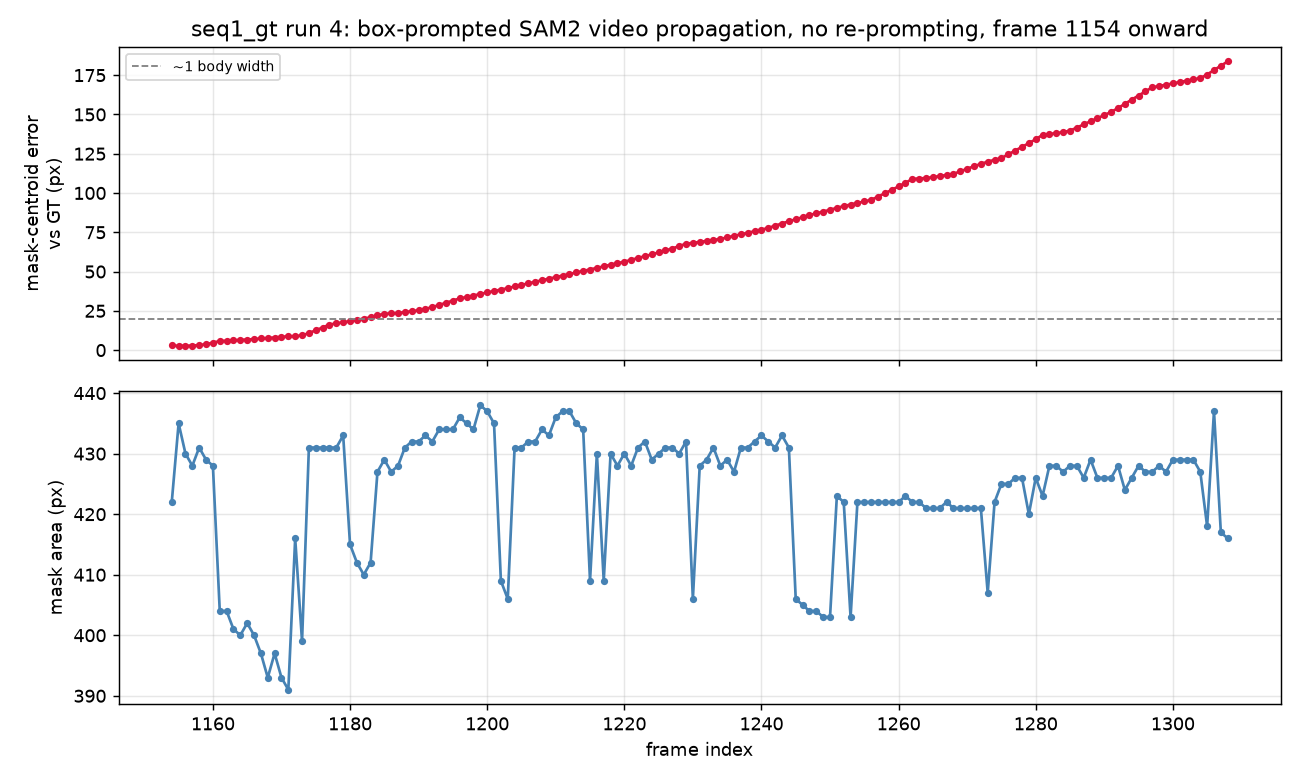
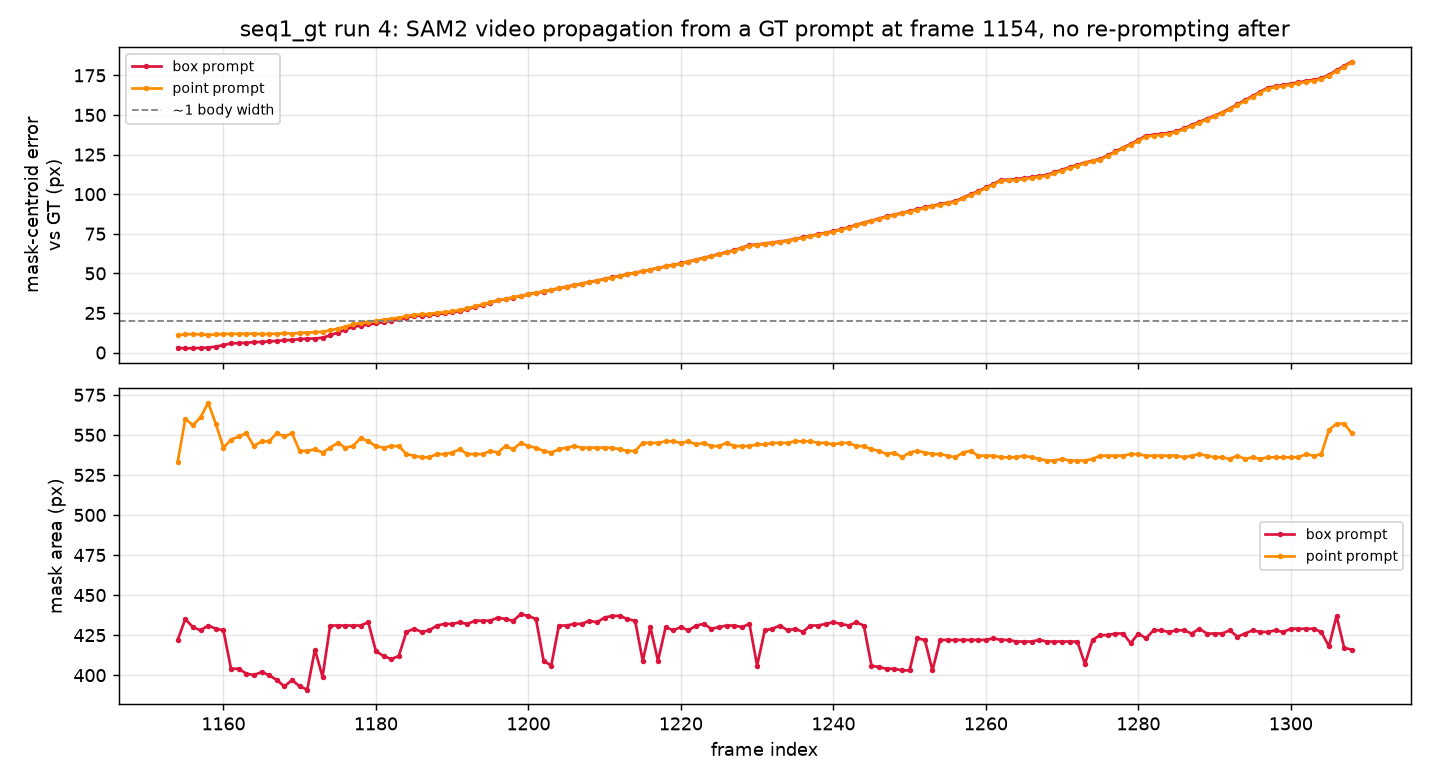
Confirm SAM2 drift is not a box-prompt artifact, and it is a mid-sequence jump, not drift-from-start
Follow-up to the earlier drift check, which used a GT box at frame 0. Two things that check left
open: (1) is the failure specific to giving SAM2 the object's extent (a box), rather than just its
location (a point)? (2) does the error grow smoothly from frame 0, or does a correctly-tracked
stretch suddenly JUMP onto a distractor partway through - which is a materially different failure
mode ("gets stuck at some point in the middle" vs "starts wrong and stays wrong")?

Both prompt kinds now seeded from real ground truth at frame 0 (a box, and a single point at the
box's center), propagated with NO further correction, on the same 155-frame run.

    python -m tracking.eval.sam2_drift_check --seq seq1_gt --run-index 4

RESULT: both prompt types fail almost identically. Centroid error: box mean=75.3px max=183.7px,
point mean=75.9px max=183.2px - the two error curves are visually indistinguishable past frame
~1180. Both are a JUMP, not gradual drift: box holds a settled ~3px track then jumps past 15px at
frame 1177 (23 frames in); point holds ~11px then jumps past 34px at frame 1198 (44 frames in).
Both frame montages show the same thing: the mask locks onto a static feature near the left edge
and never recovers while the real person walks steadily away from it.

So the earlier finding was not an artifact of prompting with a box specifically, and it is not slow
drift accumulating from an already-imprecise start - it is SAM2's video memory abruptly and
[…]

diff --git a/tracking/eval/sam2_drift_check.py b/tracking/eval/sam2_drift_check.py
@@ -1,17 +1,25 @@
 """Does prompted SAM2 (video-mode memory propagation) drift under fragmented occlusion?
 
     python -m tracking.eval.sam2_drift_check --seq seq1_gt --run-index 4
+    python -m tracking.eval.sam2_drift_check --seq seq1_gt --run-index 4 --prompts box
+    python -m tracking.eval.sam2_drift_check --seq seq1_gt --run-index 4 --prompts point
 
 Written to check ONE specific claim before it went on a poster: box-prompted SAM2 loses the person
-behind foliage after sustained occlusion. Prompts SAM2's VIDEO predictor with a box at the FIRST
-ground-truth frame of a run (the standard "track this object" usage), propagates forward through
-the WHOLE traversal with no further input, and measures mask-centroid error against ground truth
-EVERY frame - a real measurement, not a GT-free proxy, because every frame in an NFO GT run has a
-labelled box (unlike master_thesis's real-webcam-footage version of this same check, which had no
-ground truth to measure against at all).
+behind foliage after sustained occlusion (confirmed - see the first version of this script and
+images/stream/seq1_gt_sam2_video_drift*.png). This version asks the follow-up: is that specific to
+a BOX prompt (which gives SAM2 the object's extent, not just its location), and separately, does
+the failure look like drift from frame 0, or a correctly-tracked stretch that then JUMPS onto a
+distractor partway through ("gets stuck at some point in the middle")?
 
-Reported honestly whichever way it comes out - this script does not know in advance whether SAM2
-drifts here, and the poster text is written from whatever this prints, not the other way round.
+Both prompt kinds (box, and a single point at the GT box's center) run by default, both seeded with
+GROUND TRUTH at frame 0 - if the object were prompt-perfectly localised and still ends up 180px away
+by the end of a clip, the failure is in the propagation, not in an imprecise starting point. A
+mid-sequence jump is distinguished from drift-from-the-start by checking for an error spike after a
+genuinely low-error settled stretch, not just any threshold crossing.
+
+Every frame in an NFO GT run has a labelled box, so error against ground truth is a real
+measurement here, not a GT-free proxy the way master_thesis's real-webcam version of this same
+check had to settle for. Reported honestly whichever way it comes out.
 """
 import argparse
 import glob
@@ -32,12 +40,35 @@ def gt_box_px(gt, f, w, h):
     return (x * w, y * h, (x + bw) * w, (y + bh) * h)
 
 
+def run_propagation(video_predictor, frames_dir, T, H, W, gt, f0, prompt_kind):
+    """Seed the video predictor at frame 0 with a GT-derived prompt (box or a single point at the
+    GT box's center) and propagate forward with NO further correction. Returns the [T,H,W] mask
+    stack. Both prompt kinds are tried because a box gives SAM2 the object's EXTENT as well as its
+    location on frame 0, while a point gives only location - if drift happens either way, it is not
+    an artefact of prompt geometry specifically."""
+    box0 = np.array(gt_box_px(gt, f0, W, H), dtype=np.float32)
+    kwargs = dict(box=box0) if prompt_kind == 'box' else dict(
+        points=np.array([[(box0[0] + box0[2]) / 2, (box0[1] + box0[3]) / 2]], dtype=np.float32),
+        labels=np.array([1]))
+    pred = np.zeros((T, H, W), dtype=bool)
+    with torch.inference_mode(), torch.autocast('cuda', dtype=torch.bfloat16):
+        state = video_predictor.init_state(video_path=frames_dir)
+        video_predictor.add_new_points_or_box(state, frame_idx=0, obj_id=1, **kwargs)
+        for fidx, obj_ids, mask_logits in video_predictor.propagate_in_video(state, reverse=False):
+            pred[fidx] = (mask_logits[0, 0] > 0).cpu().numpy()
+    return pred
+
+
 def main():
     p = argparse.ArgumentParser(description=__doc__,
                                 formatter_class=argparse.RawDescriptionHelpFormatter)
     p.add_argument('--seq', default='seq1_gt')
     p.add_argument('--data-dir', default='data/nfo_processed')
     p.add_argument('--run-index', type=int, default=4)
+    p.add_argument('--prompts', nargs='+', choices=('box', 'point'), default=['box', 'point'],
+                   help="which GT-derived prompt(s) to seed frame 0 with, propagating forward "
+                        "with NO further correction. Runs both by default, to check whether "
+                        "drift is specific to one prompt geometry or happens either way.")
     p.add_argument('--out-dir', default='images/stream')
     a = p.parse_args()
 
@@ -55,74 +86,85 @@ def main():
     os.makedirs(FRAMES_DIR, exist_ok=True)
     for t, f in enumerate(abs_idx):
         cv2.imwrite(f'{FRAMES_DIR}/{t:05d}.jpg', frames[f])
-    box0 = np.array(gt_box_px(gt, abs_idx[0], W, H), dtype=np.float32)
 
-    pred = np.zeros((T, H, W), dtype=bool)
-    with torch.inference_mode(), torch.autocast('cuda', dtype=torch.bfloat16):
-        state = video_predictor.init_state(video_path=FRAMES_DIR)
-        video_predictor.add_new_points_or_box(state, frame_idx=0, obj_id=1, box=box0)
-        for fidx, obj_ids, mask_logits in video_predictor.propagate_in_video(state, reverse=False):
-            pred[fidx] = (mask_logits[0, 0] > 0).cpu().numpy()
+    results = {}
+    for kind in a.prompts:
+        print(f'  --- prompt: {kind} ---')
+        pred = run_propagation(video_predictor, FRAMES_DIR, T, H, W, gt, abs_idx[0], kind)
+
+        err_px, area_px, lost = [], [], []
+        for t, f in enumerate(abs_idx):
+            gx1, gy1, gx2, gy2 = gt_box_px(gt, f, W, H)
+            gcx, gcy = (gx1 + gx2) / 2, (gy1 + gy2) / 2
+            m = pred[t]
+            area_px.append(int(m.sum()))
+            if m.sum() == 0:
+                err_px.append(np.nan)
+                lost.append(True)
+            else:
+                ys, xs = np.where(m)
+                err_px.append(float(np.hypot(xs.mean() - gcx, ys.mean() - gcy)))
+                lost.append(False)
+        err_px, area_px, lost = np.array(err_px), np.array(area_px), np.array(lost)
+        results[kind] = (pred, err_px, area_px, lost)
+
+        valid = ~np.isnan(err_px)
+        print(f'    frames with an EMPTY mask (total loss): {lost.sum()}/{T} ({100 * lost.mean():.0f}%)')
+        if valid.any():
+            print(f'    centroid error vs GT: mean={err_px[valid].mean():.1f}px '
+                  f'median={np.median(err_px[valid]):.1f}px max={err_px[valid].max():.1f}px')
+            over = np.flatnonzero(err_px > 20)
+            first_over = 'never' if len(over) == 0 else abs_idx[over[0]]
+            print(f'    first frame exceeding one body-width (20px) of error: {first_over}')
+            # "gets stuck at some point in the MIDDLE": distinct from drifting from frame 0 - a
+            # correct prompt that later JUMPS onto a distractor partway through the clip, rather
+            # than being wrong from the start. Detected as a big error INCREASE after a genuinely
+            # low-error stretch, not just any threshold crossing (which the box-only run already
+            # showed can happen from a near-zero baseline).
+            settled = err_px[valid][:5].mean() if valid.sum() >= 5 else np.nan
+            jump_idx = np.flatnonzero((err_px > 3 * max(settled, 5)) & valid)
+            if len(jump_idx) and jump_idx[0] > 5:
+                print(f'    jumps from a settled track (~{settled:.0f}px) to >{3 * max(settled, 5):.0f}px '
+                      f'at frame {abs_idx[jump_idx[0]]} - a MID-SEQUENCE loss, not drift from the start')
+
     for fp in glob.glob(f'{FRAMES_DIR}/*.jpg'):
         os.remove(fp)
 
-    err_px, area_px, lost = [], [], []
-    for t, f in enumerate(abs_idx):
-        gx1, gy1, gx2, gy2 = gt_box_px(gt, f, W, H)
-        gcx, gcy = (gx1 + gx2) / 2, (gy1 + gy2) / 2
-        m = pred[t]
-        area_px.append(int(m.sum()))
-        if m.sum() == 0:
-            err_px.append(np.nan)
-            lost.append(True)
-        else:
-            ys, xs = np.where(m)
-            err_px.append(float(np.hypot(xs.mean() - gcx, ys.mean() - gcy)))
-            lost.append(False)
-    err_px, area_px, lost = np.array(err_px), np.array(area_px), np.array(lost)
-
-    valid = ~np.isnan(err_px)
-    print(f'  frames with an EMPTY mask (total loss): {lost.sum()}/{T} '
-          f'({100 * lost.mean():.0f}%)')
-    if valid.any():
-        print(f'  centroid error vs GT (frames with a mask): mean={err_px[valid].mean():.1f}px '
-              f'median={np.median(err_px[valid]):.1f}px max={err_px[valid].max():.1f}px')
-        print(f'  first frame where error exceeds 20px (a body width at this scale): '
-              f'{"never" if not (err_px[valid] > 20).any() else abs_idx[np.flatnonzero(err_px > 20)[0]]}')
-
-    fig, axes = plt.subplots(2, 1, figsize=(10, 6), sharex=True)
-    axes[0].plot(abs_idx, err_px, '.-', color='crimson')
+    fig, axes = plt.subplots(2, 1, figsize=(11, 6), sharex=True)
+    colors = {'box': 'crimson', 'point': 'darkorange'}
+    for kind, (pred, err_px, area_px, lost) in results.items():
+        axes[0].plot(abs_idx, err_px, '.-', color=colors[kind], label=f'{kind} prompt', markersize=4)
+        axes[1].plot(abs_idx, area_px, '.-', color=colors[kind], label=f'{kind} prompt', markersize=4)
     axes[0].axhline(20, color='gray', linestyle='--', linewidth=1, label='~1 body width')
-    for t, f in enumerate(abs_idx):
-        if lost[t]:
-            axes[0].axvspan(f - 0.5, f + 0.5, color='crimson', alpha=0.15)
     axes[0].set_ylabel('mask-centroid error\nvs GT (px)')
     axes[0].legend(fontsize=8)
-    axes[0].set_title(f'{a.seq} run {a.run_index}: box-prompted SAM2 video propagation, '
-                      f'no re-prompting, frame {run[0]} onward')
-    axes[1].plot(abs_idx, area_px, '.-', color='steelblue')
+    axes[0].set_title(f'{a.seq} run {a.run_index}: SAM2 video propagation from a GT prompt at '
+                      f'frame {run[0]}, no re-prompting after')
     axes[1].set_ylabel('mask area (px)')
     axes[1].set_xlabel('frame index')
+    axes[1].legend(fontsize=8)
     for ax in axes:
         ax.grid(alpha=.3)
     plt.tight_layout()
-    plt.savefig(f'{a.out_dir}/{a.seq}_sam2_video_drift.png', dpi=130)
-    print(f'  wrote {a.out_dir}/{a.seq}_sam2_video_drift.png')
+    plot_path = f'{a.out_dir}/{a.seq}_sam2_video_drift.png'
+    plt.savefig(plot_path, dpi=130)
+    print(f'  wrote {plot_path}')
 
-    sample_t = np.linspace(0, T - 1, 6).astype(int)
-    tiles = []
-    for t in sample_t:
-        f = abs_idx[t]
-        ov = cv2.cvtColor(frames[f], cv2.COLOR_GRAY2BGR)
-        ov[pred[t]] = (0.4 * ov[pred[t]] + np.array([0, 255, 0]) * 0.6).astype(np.uint8)
-        gx1, gy1, gx2, gy2 = (int(v) for v in gt_box_px(gt, f, W, H))
-        cv2.rectangle(ov, (gx1, gy1), (gx2, gy2), (0, 0, 255), 1)
-        cv2.putText(ov, f'f{f}  err={err_px[t]:.0f}px' if not lost[t] else f'f{f}  LOST',
-                   (4, 16), cv2.FONT_HERSHEY_SIMPLEX, 0.45, (0, 255, 255), 1)
-        tiles.append(cv2.resize(ov, (280, 280)))
-    montage_path = f'{a.out_dir}/{a.seq}_sam2_video_drift_frames.png'
-    cv2.imwrite(montage_path, np.hstack(tiles))
-    print(f'  wrote {montage_path}  (green=SAM2 mask, red=GT box)')
+    for kind, (pred, err_px, area_px, lost) in results.items():
+        sample_t = np.linspace(0, T - 1, 6).astype(int)
+        tiles = []
+        for t in sample_t:
+            f = abs_idx[t]
+            ov = cv2.cvtColor(frames[f], cv2.COLOR_GRAY2BGR)
+            ov[pred[t]] = (0.4 * ov[pred[t]] + np.array([0, 255, 0]) * 0.6).astype(np.uint8)
+            gx1, gy1, gx2, gy2 = (int(v) for v in gt_box_px(gt, f, W, H))
+            cv2.rectangle(ov, (gx1, gy1), (gx2, gy2), (0, 0, 255), 1)
+            cv2.putText(ov, f'f{f}  err={err_px[t]:.0f}px' if not lost[t] else f'f{f}  LOST',
+                       (4, 16), cv2.FONT_HERSHEY_SIMPLEX, 0.45, (0, 255, 255), 1)
+            tiles.append(cv2.resize(ov, (280, 280)))
+        montage_path = f'{a.out_dir}/{a.seq}_sam2_video_drift_frames_{kind}.png'
+        cv2.imwrite(montage_path, np.hstack(tiles))
+        print(f'  wrote {montage_path}  (green=SAM2 mask, red=GT box, prompt={kind})')
 
 
 if __name__ == '__main__':
